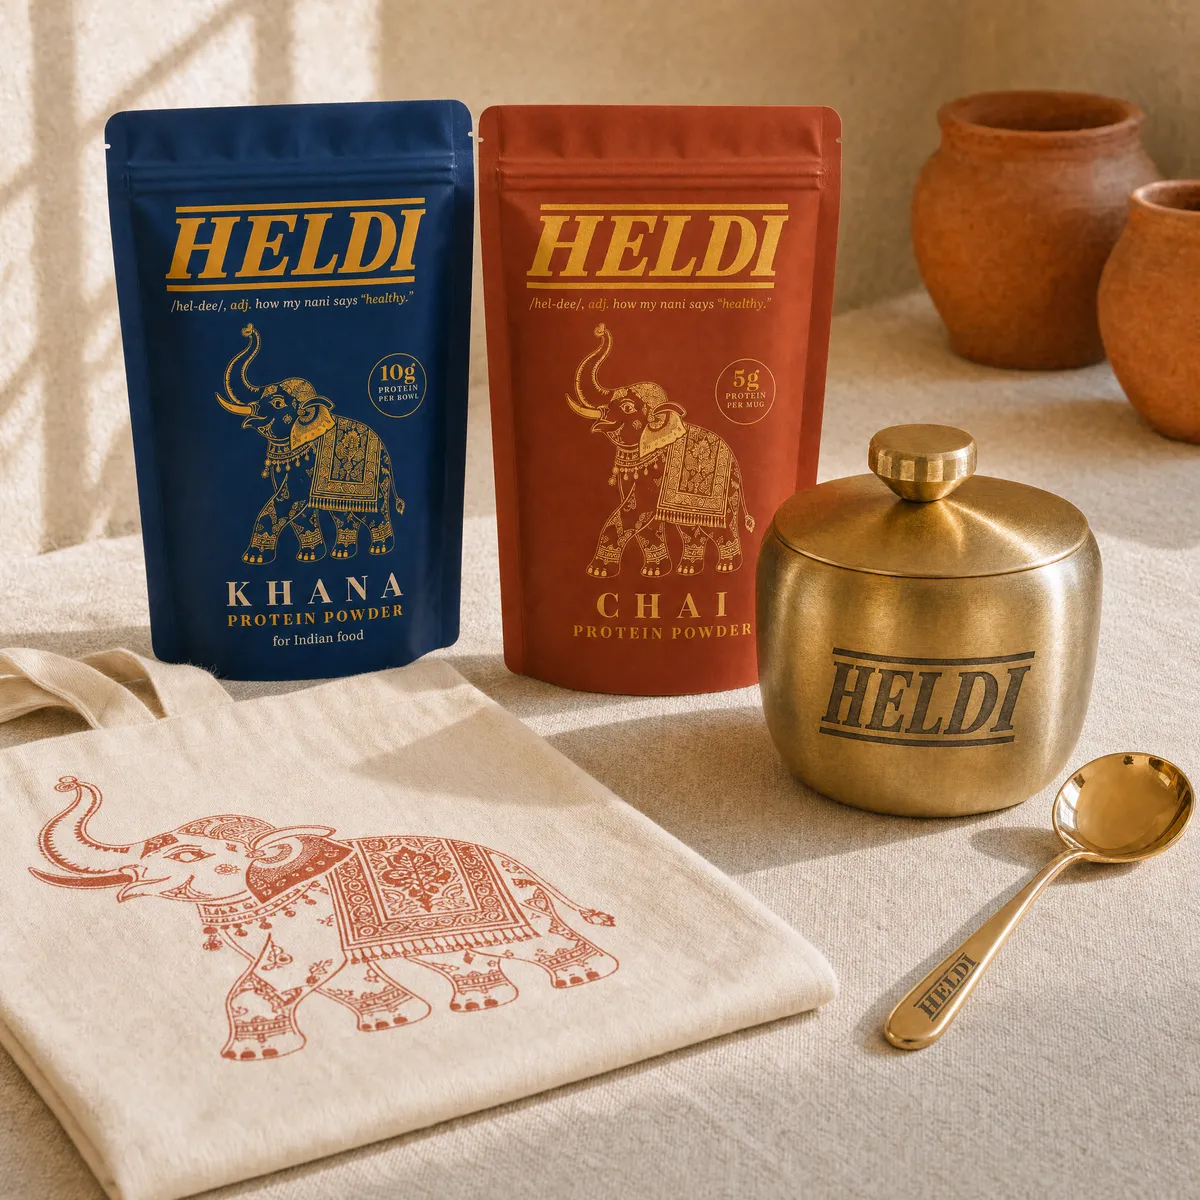
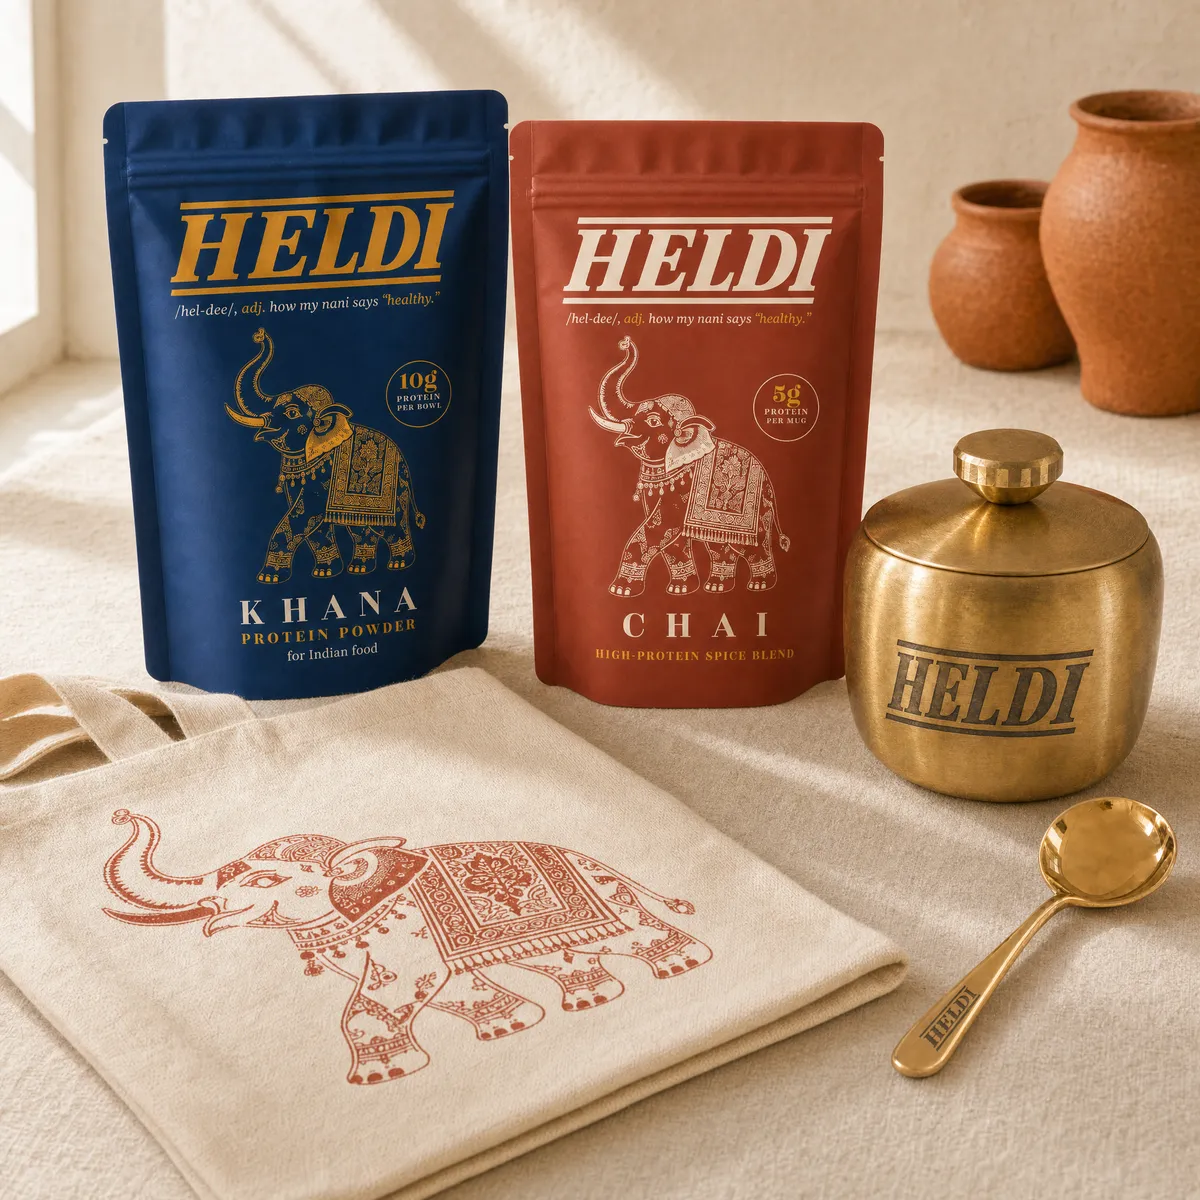
Print the Chai pouch in cream, not gold, and make the tote a line drawing
Two corrections, one of them undoing my own mistake.

The Chai pouch is CREAM on terracotta, not gold. I had it the other way round,
and worse, I "fixed" the mixed shot earlier by forcing the Chai wordmark gold
to match Khana. That was the wrong direction. The authoritative artwork is
HeldiPM design/pouch-v2/print/heldi-chai-5x6-FRONT-sRGB.png, and reading it
rather than guessing settles four things at once: the wordmark, rules,
dictionary line, elephant, roundel ring and CHAI are all cream; gold appears
only on "adj.", "healthy.", the 5g and the strapline; the elephant is a fine
cream LINE DRAWING, not a filled silhouette; and the strapline reads
HIGH-PROTEIN SPICE BLEND, not "PROTEIN POWDER" as my earlier shots had it.

Khana stays gold on navy. The two packs are deliberately different, and the
mixed shot now shows that contrast instead of flattening it.

The tote elephant is also a line drawing: terracotta outline with the internal
pattern picked out and bare cream cotton showing between the strokes, as it
appeared in the mixed shot. khana-bundle-2 and chai-bundle-2 had it as a solid
terracotta silhouette, which read as a different product. The correct tote was
cropped out of the mixed shot and used as the reference so all four now match.

Regenerated: chai-1, chai-bundle-2, khana-chai-pair (Chai ink) and
khana-bundle-2 (tote only). khana-1 is untouched, having neither a Chai pouch
nor a tote in frame.
[…]

diff --git a/lib/commerce/catalog.ts b/lib/commerce/catalog.ts
@@ -113,8 +113,8 @@ export function isGiftLine(line: Pick<CartLine, "merchandise">): boolean {
 // It goes when the tier model does.
 const TIER_IMAGES: Record<TierId, { url: string; altText: string }> = {
   single: { url: "/images/shop/khana-1.webp?v=5", altText: "A Heldi Khana pouch beside the engraved brass table jar and its gold spoon" },
-  double: { url: "/images/shop/khana-bundle-2.webp?v=5", altText: "Two Heldi Khana pouches with the engraved brass jar, its gold spoon and the cotton tote bag" },
-  triple: { url: "/images/shop/khana-chai-pair.webp?v=1", altText: "One Heldi Khana pouch and one Heldi Chai pouch with the engraved brass jar, its gold spoon and the cotton tote bag" }
+  double: { url: "/images/shop/khana-bundle-2.webp?v=6", altText: "Two Heldi Khana pouches with the engraved brass jar, its gold spoon and the cotton tote bag" },
+  triple: { url: "/images/shop/khana-chai-pair.webp?v=2", altText: "One Heldi Khana pouch and one Heldi Chai pouch with the engraved brass jar, its gold spoon and the cotton tote bag" }
 };
 const SAMPLE_IMAGE = { url: "/images/shop/sample.webp?v=4", altText: "Heldi Sample sachet" };
 

diff --git a/components/shop/chai-data.ts b/components/shop/chai-data.ts
@@ -253,7 +253,7 @@ export type ChaiImage = { url: string; altText: string };
  *  Regenerate with a ?v= bump so the image optimizer drops the old one. */
 export const CHAI_IMAGES: ChaiImage[] = [
   {
-    url: "/images/shop/chai-1.webp?v=4",
+    url: "/images/shop/chai-1.webp?v=5",
     altText: "The terracotta Heldi Chai pouch beside the engraved brass table jar and its gold spoon"
   },
   {
@@ -261,11 +261,11 @@ export const CHAI_IMAGES: ChaiImage[] = [
     altText: "The Heldi Chai pouch on its own, front facing"
   },
   {
-    url: "/images/shop/chai-bundle-2.webp?v=4",
+    url: "/images/shop/chai-bundle-2.webp?v=5",
     altText: "Two Heldi Chai pouches with the engraved brass jar, its gold spoon and the cotton tote bag"
   },
   {
-    url: "/images/shop/khana-chai-pair.webp?v=1",
+    url: "/images/shop/khana-chai-pair.webp?v=2",
     altText: "One Heldi Chai pouch and one Heldi Khana pouch with the engraved brass jar, its gold spoon and the cotton tote bag"
   }
 ];
